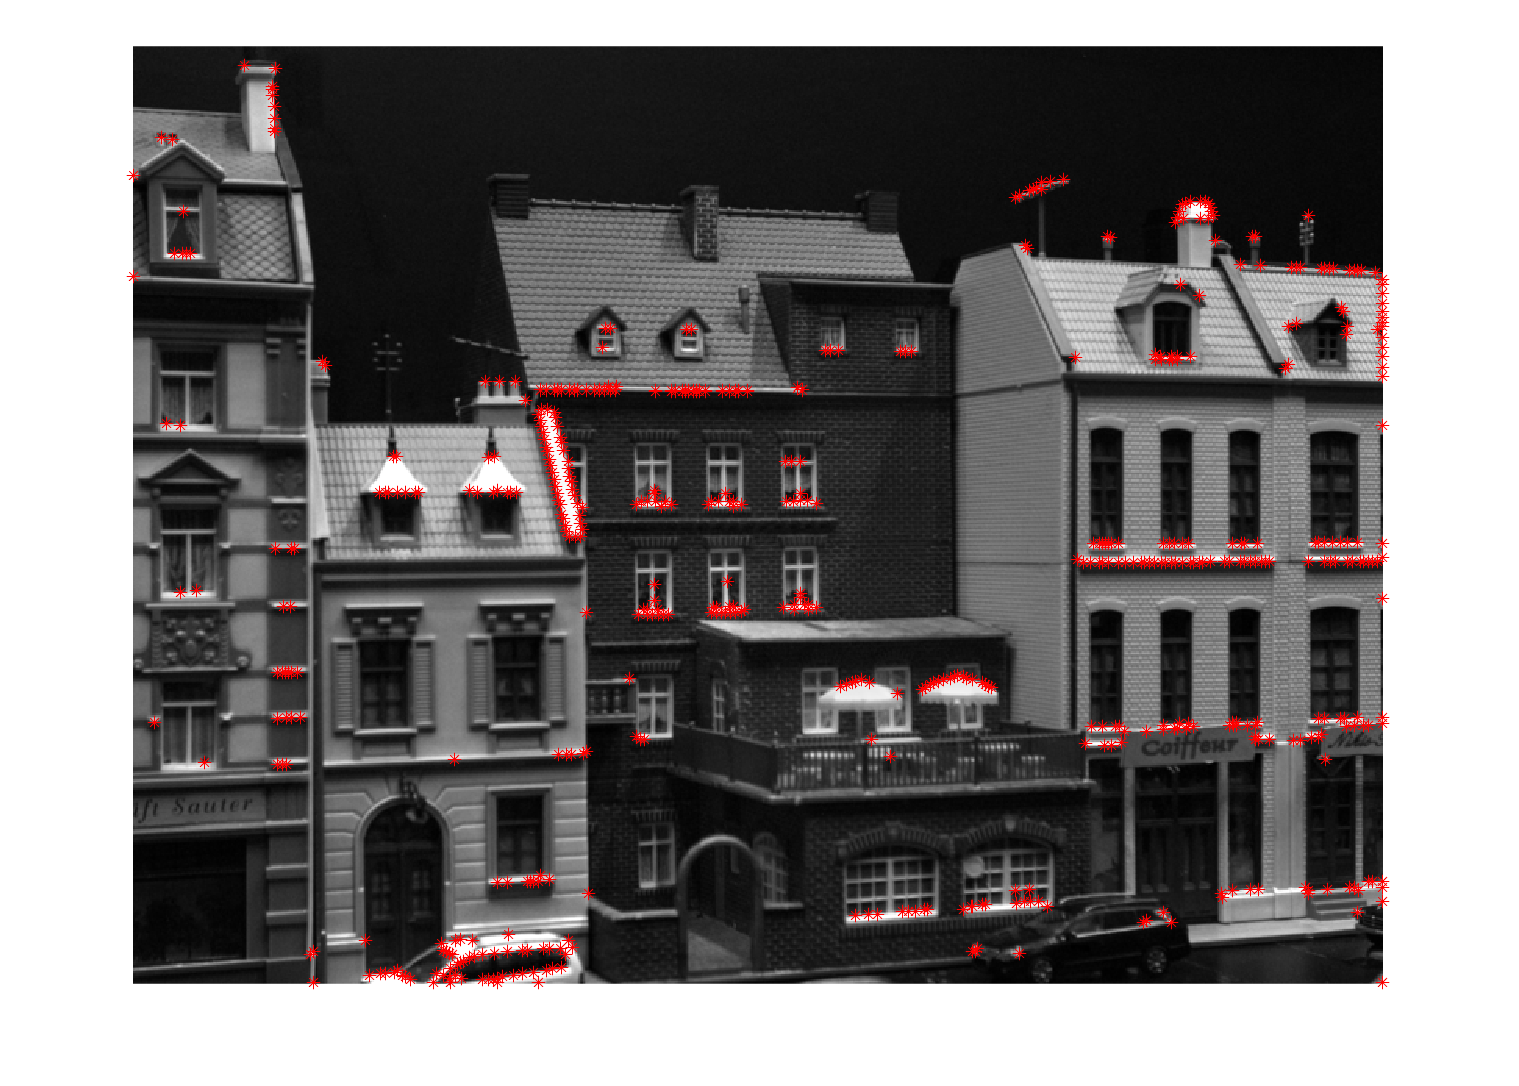
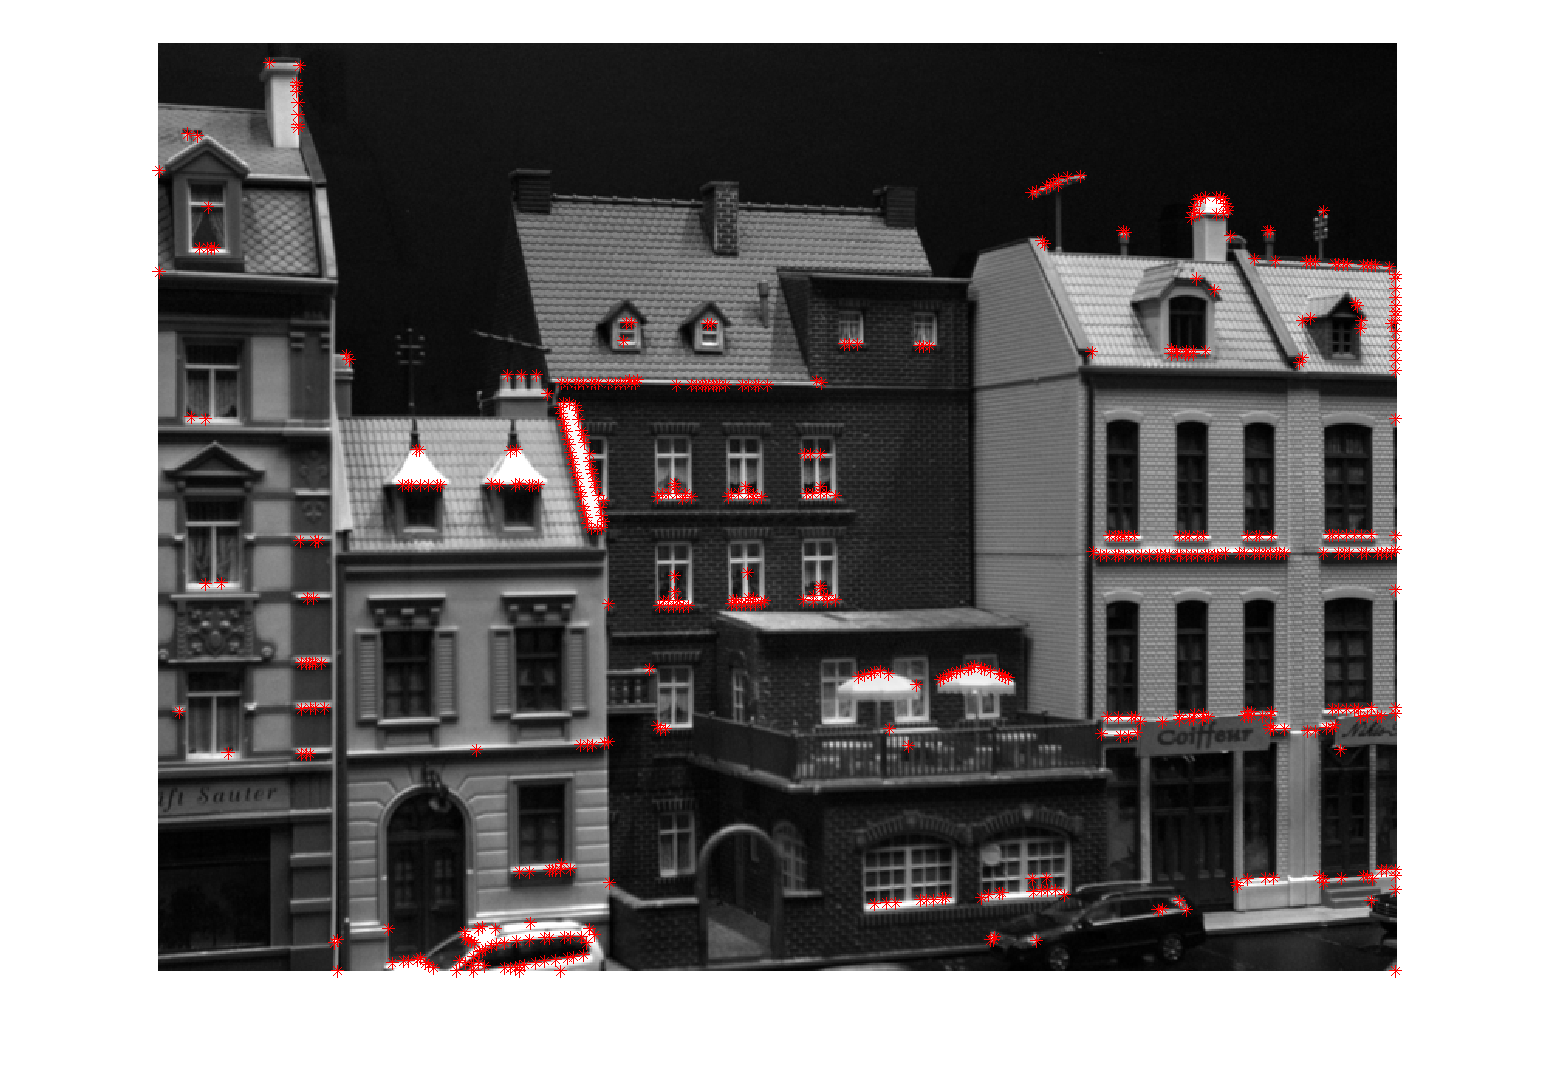
Added some pictures

Changed region(s): [[0.0619, 0.0309, 0.9282, 0.9261], [0.526, 0.4322, 0.5569, 0.463]]

diff --git a/assignment2/report.tex b/assignment2/report.tex
@@ -241,9 +241,42 @@ Lastly, as a variable parameter, a hard threshold for how similar the matches sh
 
 \end{homeworkSubProblem}
 
+\clearpage
 \begin{homeworkSubProblem}[Experimentation and results]
 \textbf{Matchings}\\
-\\
+
+\begin{figure}[H]
+\centering
+\begin{subfigure}[b]{1\textwidth}
+	\includegraphics[width=\textwidth]{output/matches5.png}
+	\caption{Using descriptor field width / height 5}
+\end{subfigure}\\
+\begin{subfigure}[b]{1\textwidth}
+	\includegraphics[width=\textwidth]{output/matches7.png}
+	\caption{Using descriptor field width / height 7}
+\end{subfigure}\\
+
+Looking at the matches produced for descriptor sizes 5 and 7, it seems that very many matches have been filtered out. We will be able to see what filter-method caused most of this in the statistics section.\\
+In both mathcing, we see one tilted line. This line is wrong; However, it may have something to do with the interest point being more or less on the edge of the image. Also the two matched points do look somewhat similar, both being placed in an edge of the roof and all.\\
+The rest of the lines are fairly parallel, which is a good sign.
+
+\end{figure}
+\begin{figure}[H]
+\ContinuedFloat
+\begin{subfigure}[b]{1\textwidth}
+	\includegraphics[width=\textwidth]{output/matches9.png}
+	\caption{Using descriptor field width / height 9}
+\end{subfigure}\\
+\begin{subfigure}[b]{1\textwidth}
+	\includegraphics[width=\textwidth]{output/matches13.png}
+	\caption{Using descriptor field width / height 13}
+\end{subfigure}
+\end{figure}
+
+For the matches produced by descriptor size 9 there are only parallel lines. In the case of descriptor size 13, there is a single tilted line, which again is some edge case.\\
+There seem to be a lot more matches being accepted for "9" and "13".\\
+We will look at what the reason for this is in the statistics section.\\
+Lastly, it seems that only the case of descriptor size 13 managed to \textit{not} match the wrong two "chimney-things" in the top-right.
 
 \textbf{Statistics}\\
 \begin{tabular}{c||c|c|c|c}

diff --git a/assignment2/main.m b/assignment2/main.m
@@ -43,7 +43,7 @@ for i = 1:length(N)
 
     % Plot matched interest points on top of images
     figure;
-    showMatchedFeatures(im1,im2,p1,p2,'montage','PlotOptions',{'ro','go','c-'});
+    showMatchedFeatures(im1,im2,p1,p2,'montage');
     legend('Image 1 points','Image 2 points', 'Location','NorthWest');
 
     % Save plot figure
